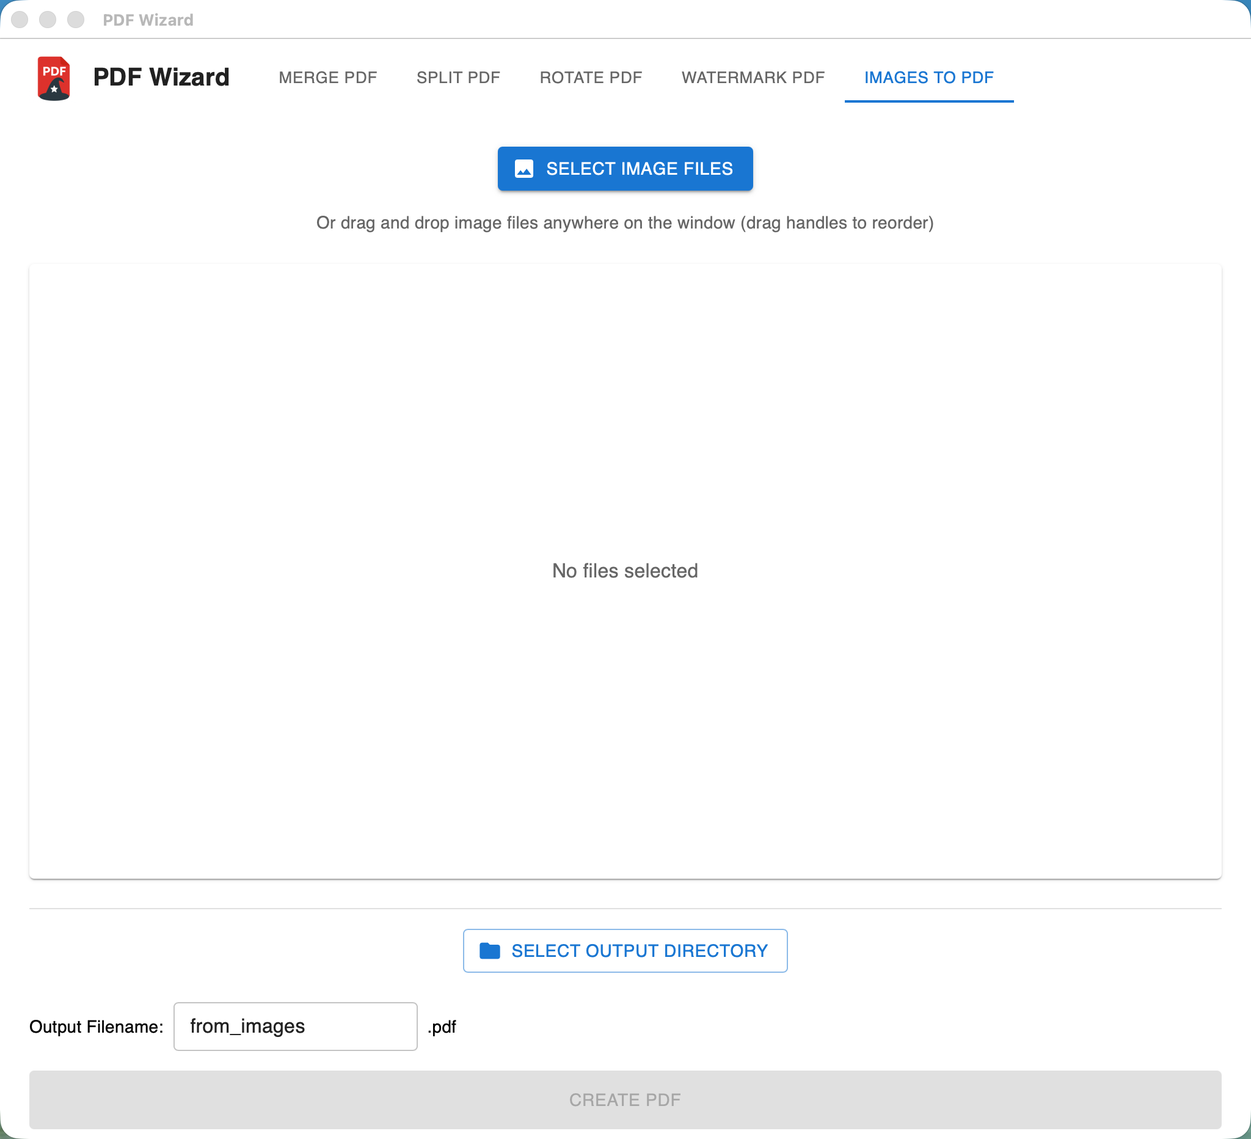
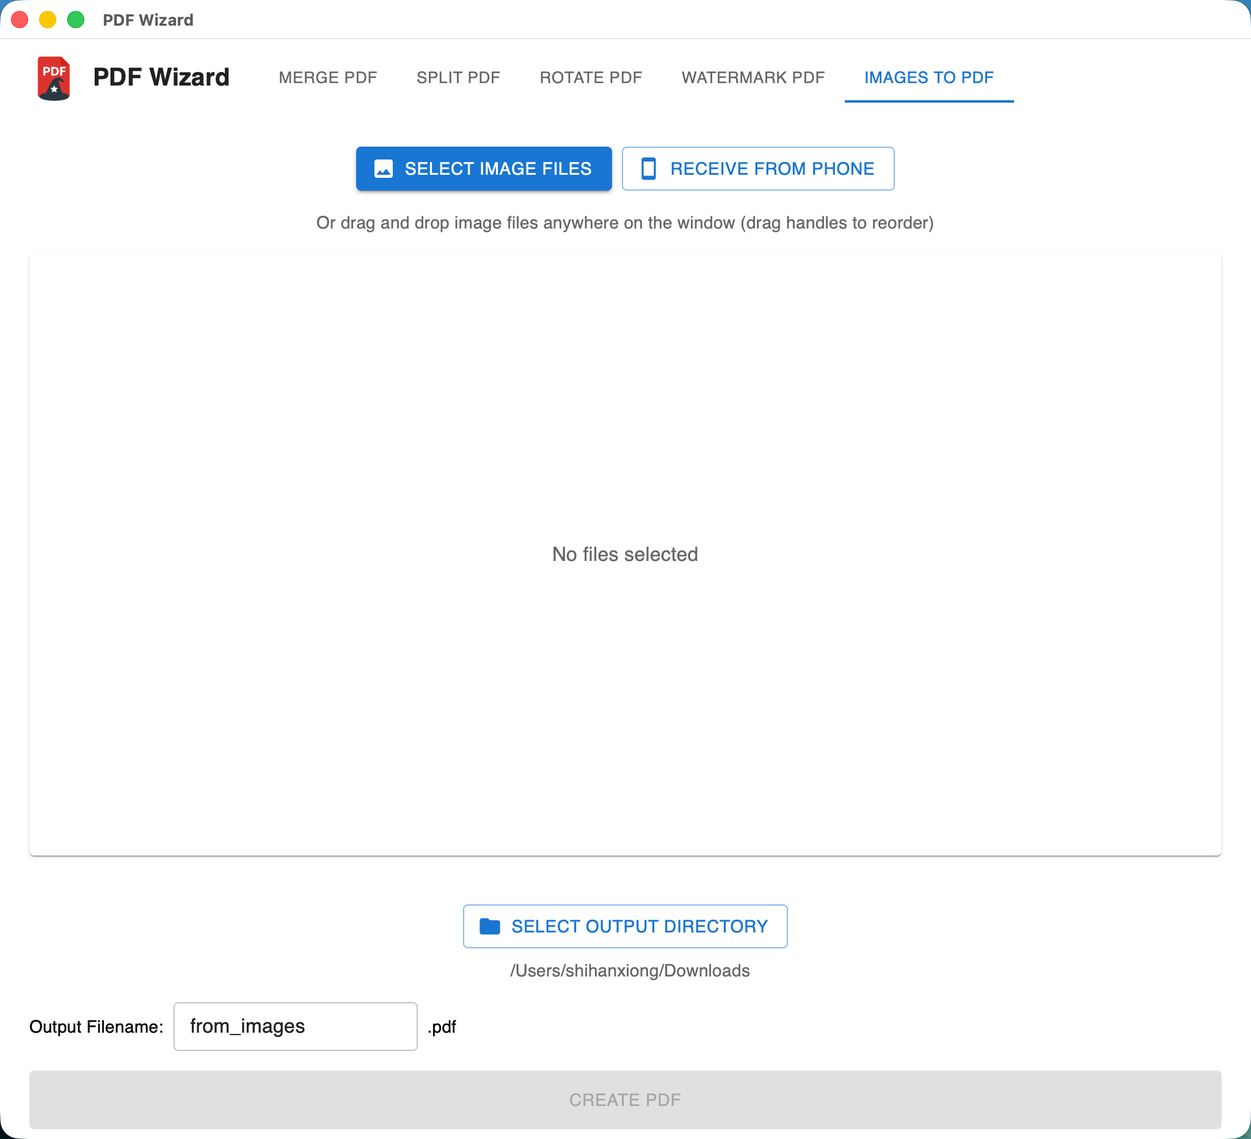
docs: document LAN phone upload, Gatekeeper, and design map (#80)
- README, SYSTEM_DESIGN: Images to PDF phone flow, qrcode, services layout
- DESIGN files: App phone bindings, services LAN section, components/i18n notes
- DISTRIBUTION, dist READMEs: transfer method does not bypass signing
- e2e README: scope excludes phone/LAN; OPTIMIZATION_REPORT snapshot row
- Update screenshots and minor wails/main tweaks included in working tree

Made-with: Cursor

diff --git a/pdf_wizard/main.go b/pdf_wizard/main.go
@@ -54,7 +54,7 @@ func main() {
 		Mac: &mac.Options{
 			About: &mac.AboutInfo{
 				Title:   "PDF Wizard",
-				Message: "A modern PDF toolkit built with Wails v2\n\nAuthor: Hanxiong Shi\nVersion 1.0.0\nCopyright © 2026",
+				Message: "A modern PDF toolkit built with Wails v2\n\nAuthor: Hanxiong Shi\nVersion 1.0.1\nCopyright © 2026",
 			},
 		},
 		OnStartup:  app.startup,

diff --git a/SYSTEM_DESIGN.md b/SYSTEM_DESIGN.md
@@ -15,7 +15,7 @@ Avoid duplicating long procedures across files. Use this table to find the **sin
 | Commands from `pdf_wizard/` (`wails dev`, quick test entry points) | [pdf_wizard/README.md](pdf_wizard/README.md) |
 | Native menu, `app.go`, config file, models, Wails `options.App` | [pdf_wizard/DESIGN.md](pdf_wizard/DESIGN.md) |
 | Tab components and Settings dialog UI | [pdf_wizard/frontend/src/components/DESIGN.md](pdf_wizard/frontend/src/components/DESIGN.md) |
-| File/PDF services (`FileService`, `PDFService`) | [pdf_wizard/services/DESIGN.md](pdf_wizard/services/DESIGN.md) |
+| File/PDF services (`FileService`, `PDFService`) and **LAN phone upload** (`phone_upload.go`) | [pdf_wizard/services/DESIGN.md](pdf_wizard/services/DESIGN.md) |
 | i18n layout, `useI18n`, adding a language | [pdf_wizard/frontend/src/utils/i18n/DESIGN.md](pdf_wizard/frontend/src/utils/i18n/DESIGN.md) |
 | **This file** | End-to-end architecture, UI patterns, watermark and images-to-PDF specs, cross-cutting technical notes |
 
@@ -48,11 +48,14 @@ pdf_wizard/
 │   ├── file_service.go    # File selection and metadata operations
 │   ├── pdf_service.go     # PDF processing operations (merge, split, rotate, watermark, images→PDF)
 │   ├── heic_jpeg.go       # HEIC/HEIF → temporary JPEG for pdfcpu import
+│   ├── phone_upload.go    # LAN HTTP server for phone → images upload; HTML templates
+│   ├── phone_upload_logo.go # go:embed app logo for phone pages (mirrors frontend asset)
+│   ├── app_logo.png       # Embedded copy of frontend logo (keep in sync when changing branding)
 │   ├── validation.go      # File and directory validation utilities
 │   ├── constants.go       # Service constants (file extensions, permissions)
 │   └── DESIGN.md          # Backend services design
 ├── models/                 # Data models
-│   └── types.go           # PDFMetadata, SplitDefinition, RotateDefinition, WatermarkDefinition
+│   └── types.go           # PDFMetadata, SplitDefinition, RotateDefinition, WatermarkDefinition, PhoneUploadPageCopy
 ├── frontend/
 │   ├── src/
 │   │   ├── main.tsx       # React entry; wraps App in I18nProvider
@@ -158,6 +161,7 @@ The backend uses a service-based architecture with clear separation of concerns:
 
 - **FileService** - Handles file selection, directory selection, and file metadata operations (including `SelectImageFiles` for the images tab)
 - **PDFService** - Handles all PDF processing operations (merge, split, rotate, watermark, images→PDF via `ImagesToPDF`)
+- **LAN phone upload** (`services/phone_upload.go`) - Optional HTTP server on the LAN for the Images to PDF tab: token-scoped URL `/u/{token}/`, multipart uploads, `PrimaryLANIPv4` for the QR base URL; not a separate service struct, but documented in [pdf_wizard/services/DESIGN.md](pdf_wizard/services/DESIGN.md)
 - **Validation utilities** (`validation.go`) - File and directory validation functions
   - `validatePDFFile()` - Validates file exists, is readable, and has PDF extension
   - `validateOutputDirectory()` - Validates directory exists and is accessible
@@ -231,7 +235,7 @@ For detailed application-level design, see [pdf_wizard/DESIGN.md](pdf_wizard/DES
 - `github.com/pdfcpu/pdfcpu/pkg/pdfcpu/color` - Color handling for watermarks
 - `github.com/pdfcpu/pdfcpu/pkg/pdfcpu/types` - PDF types and anchors
 - `github.com/gen2brain/heic` - HEIC/HEIF decode for the images→PDF pipeline (temporary JPEG before import)
-- Standard library: `encoding/json`, `image/jpeg`, `os`, `path/filepath`, `strings`, `fmt` - For configuration management, file operations, HEIC→JPEG encoding, and string manipulation
+- Standard library: `net`, `net/http`, `html/template`, `encoding/json`, `image/jpeg`, `os`, `path/filepath`, `strings`, `fmt`, `sync/atomic` — LAN phone upload server (`phone_upload.go`), configuration, HEIC→JPEG encoding, and string handling
 
 **Frontend:**
 
@@ -240,6 +244,7 @@ For detailed application-level design, see [pdf_wizard/DESIGN.md](pdf_wizard/DES
 - TypeScript
 - Wails runtime bindings
 - `@dnd-kit/core`, `@dnd-kit/sortable`, and `@dnd-kit/utilities` - For drag-and-drop file reordering (replaced deprecated react-beautiful-dnd)
+- `qrcode` - QR code generation for the LAN phone upload URL (Images to PDF tab)
 - Custom i18n system (`utils/i18n/`) - For internationalization (per-language modules, `catalog.ts` merge, React `I18nProvider` / `useI18n` for 12 languages)
 
 ### Error Handling
@@ -284,12 +289,26 @@ For detailed application-level design, see [pdf_wizard/DESIGN.md](pdf_wizard/DES
 
 The **Images to PDF** tab produces a single PDF with **one page per image**, in the order shown in the list. Supported raster types include JPEG, PNG, WebP, TIFF, GIF, BMP, and HEIC/HEIF. HEIC/HEIF files are converted once to temporary JPEGs on the backend so pdfcpu can import them efficiently (`services/heic_jpeg.go`).
 
+### Receive from phone (same Wi‑Fi)
+
+Users can **start receiving** on the desktop to run a small **HTTP server** on the LAN (random port, `0.0.0.0`). The app shows a **QR code** and URL that open a **phone-friendly upload page** in the device browser. The page is **localized** using `models.PhoneUploadPageCopy` strings passed from the React (`useI18n`) when the session starts.
+
+**Behavior (summary):**
+
+- **Token URL** — `http://<LAN-IPv4>:<port>/u/<token>/` (see `PrimaryLANIPv4()` + `StartLANImageUploadServer` in `services/phone_upload.go`).
+- **Logo** — `GET /u/{token}/logo.png` serves an embedded PNG (`services/app_logo.png`, same as `frontend/src/assets/img/app_logo.png`).
+- **Limit** — Up to **25** images per upload request (`PhoneUploadMaxFilesPerSession`); server and client enforce this.
+- **After a successful upload** — The app emits `images-phone-upload` with JSON path array, then **stops the LAN server** after a short delay so the phone can load the **success** (`/ok`) page first; the desktop clears the QR receive state. Further batches require **Receive from phone** again (new QR).
+- **Session closed** — After upload, revisiting the upload URL shows a **session ended** page; repeat **POST** returns **410** with the same copy. HTML responses use **`Cache-Control: no-store`**; the upload form uses **`pageshow` + bfcache reload** so Back does not show a stale form from cache.
+- **Wails bindings** — `StartImagesPhoneUpload(pageCopy)`, `StopImagesPhoneUpload()`; implementation details: [pdf_wizard/services/DESIGN.md — LAN phone image upload](pdf_wizard/services/DESIGN.md#lan-phone-image-upload), [pdf_wizard/DESIGN.md](pdf_wizard/DESIGN.md) (`App`).
+
 ### Functional requirements (summary)
 
 1. **Image selection** — Native multi-select (`SelectImageFiles`) and window-level drag-and-drop when the images tab is active; invalid paths are filtered with user-visible feedback.
-2. **Ordering** — Same `@dnd-kit` sortable list pattern as merge; order maps directly to page order in the output PDF.
-3. **Output** — Output directory and base filename (`.pdf` appended); calls Wails-bound `ImagesToPDF`.
-4. **i18n** — Tab label, buttons, and errors use `useI18n()` like other tabs.
+2. **Phone upload** (optional) — Receive from phone + QR + `EventsOn('images-phone-upload')` to append files to the same list as local picks.
+3. **Ordering** — Same `@dnd-kit` sortable list pattern as merge; order maps directly to page order in the output PDF.
+4. **Output** — Output directory and base filename (`.pdf` appended); calls Wails-bound `ImagesToPDF`.
+5. **i18n** — Tab label, buttons, phone page copy, and errors use `useI18n()` like other tabs; phone-specific keys live in `Translations` and `PhoneUploadPageCopy`.
 
 For component-level UI and state shape, see [pdf_wizard/frontend/src/components/DESIGN.md](pdf_wizard/frontend/src/components/DESIGN.md).
 

diff --git a/README.md b/README.md
@@ -10,7 +10,7 @@ A modern PDF toolkit built with [Wails v2](https://wails.io), combining Go backe
 - **Split PDFs**: Divide a PDF into multiple files based on page ranges
 - **Rotate PDFs**: Rotate specific page ranges in a PDF (90°, -90°, or 180°)
 - **Watermark PDFs**: Add text watermarks to PDFs with customizable font, size, color, opacity, rotation, and position. Features **language-specific fonts** that automatically adapt based on your selected language (Chinese, Japanese, Korean, Hindi, and standard fonts for other languages)
-- **Images to PDF**: Build one PDF from multiple images (JPEG, PNG, WebP, TIFF, GIF, BMP, HEIC/HEIF) with drag-and-drop reorder; HEIC/HEIF are converted to temporary JPEGs before import for reliable, faster processing
+- **Images to PDF**: Build one PDF from multiple images (JPEG, PNG, WebP, TIFF, GIF, BMP, HEIC/HEIF) with drag-and-drop reorder; **receive from phone** on the same Wi‑Fi via a LAN upload page and QR code (localized HTML, session limits, automatic stop after upload). HEIC/HEIF are converted to temporary JPEGs before import for reliable, faster processing
 
 **Features:**
 
@@ -137,7 +137,7 @@ Long-form material lives in dedicated files so it is not copied in multiple plac
 | Release packaging (DMG, ZIP, `build-dist.sh`, NSIS) | [pdf_wizard/DISTRIBUTION.md](pdf_wizard/DISTRIBUTION.md)                                     |
 | `main.go`, `app.go`, menu, config file, models      | [pdf_wizard/DESIGN.md](pdf_wizard/DESIGN.md)                                                 |
 | Tab components and Settings UI                      | [pdf_wizard/frontend/src/components/DESIGN.md](pdf_wizard/frontend/src/components/DESIGN.md) |
-| Go services (merge, split, rotate, watermark, images→PDF) | [pdf_wizard/services/DESIGN.md](pdf_wizard/services/DESIGN.md)                         |
+| Go services (merge, split, rotate, watermark, images→PDF, **LAN phone upload**) | [pdf_wizard/services/DESIGN.md](pdf_wizard/services/DESIGN.md)                         |
 | i18n files, `useI18n`, adding a language            | [pdf_wizard/frontend/src/utils/i18n/DESIGN.md](pdf_wizard/frontend/src/utils/i18n/DESIGN.md) |
 | Daily commands from `pdf_wizard/`                   | [pdf_wizard/README.md](pdf_wizard/README.md)                                                 |
 
@@ -199,6 +199,7 @@ Coverage reports, filtering tests by name, and Playwright/CI details: **[pdf_wiz
 ## Features
 
 - **Watermark PDFs** (language-aware fonts, positions, opacity): [SYSTEM_DESIGN.md — Watermark PDF Tab](SYSTEM_DESIGN.md#watermark-pdf-tab).
+- **Images to PDF — phone upload** (QR, LAN server, session rules): [SYSTEM_DESIGN.md — Images to PDF Tab](SYSTEM_DESIGN.md#images-to-pdf-tab) and [pdf_wizard/services/DESIGN.md — LAN phone image upload](pdf_wizard/services/DESIGN.md#lan-phone-image-upload).
 - **Internationalization** (12 languages, `useI18n`, adding a locale): [pdf_wizard/frontend/src/utils/i18n/DESIGN.md](pdf_wizard/frontend/src/utils/i18n/DESIGN.md).
 
 ## Technology stack
@@ -263,6 +264,10 @@ Navigate to the frontend directory and install manually:
 cd pdf_wizard/frontend
 npm install
 ```
+
+### macOS: app blocked or “unidentified developer” after sharing the DMG
+
+How you copy the app (AirDrop, WeChat, USB, etc.) does **not** change Gatekeeper rules. Unsigned or unnotarized builds still need **Right-click → Open** (or **Privacy & Security**) the first time. For fewer prompts for end users, use **signed and notarized** builds; see [pdf_wizard/DISTRIBUTION.md](pdf_wizard/DISTRIBUTION.md).
 
 ### Language not changing
 

diff --git a/pdf_wizard/services/DESIGN.md b/pdf_wizard/services/DESIGN.md
@@ -9,8 +9,26 @@ The backend uses a service-based architecture with clear separation of concerns:
 - **FileService** (`file_service.go`): Handles file selection, directory selection, and file metadata operations
 - **PDFService** (`pdf_service.go`): Handles all PDF processing operations (merge, split, rotate, watermark, images→PDF)
 - **HEIC helpers** (`heic_jpeg.go`): Decode HEIC/HEIF to temporary JPEG for `api.ImportImagesFile`
+- **LAN phone upload** (`phone_upload.go`, `phone_upload_logo.go`): Optional HTTP server for sending images from a phone on the same LAN (see [§ LAN phone image upload](#lan-phone-image-upload))
 
-The App struct in `app.go` acts as a thin wrapper that delegates to these services and provides Wails bindings for the frontend.
+The App struct in `app.go` acts as a thin wrapper that delegates to these services and provides Wails bindings for the frontend (including starting/stopping the phone upload server).
+
+## LAN phone image upload
+
+**Files:** `phone_upload.go`, `phone_upload_logo.go`, embedded `app_logo.png` (keep in sync with `frontend/src/assets/img/app_logo.png`).
+
+**Entry:** `StartLANImageUploadServer(onUploaded func([]string), pageCopy models.PhoneUploadPageCopy) (pageURL string, stop func() error, err error)` — listens on `0.0.0.0:random port`, serves token-scoped routes under `/u/{token}/`.
+
+**Behavior:**
+
+- **GET** `/u/{token}/` — Upload form (or **session closed** HTML after a successful upload); **`writePhoneFormHTML`** injects `MaxFiles`, JS for selected-count (`__COUNT__`), and bfcache **`pageshow`** reload.
+- **GET** `/u/{token}/ok` — Success page after **POST** + redirect (PRG).
+- **GET** `/u/{token}/logo.png` — PNG bytes (`go:embed`), used as `src="logo.png"` in templates (avoids large `data:` URIs in HTML).
+- **POST** — Multipart field `files`; saves valid images to a session temp dir; **`cloneUploadedImagesForApp`** copies into `os.TempDir` paths for the app; **`onUploaded`** receives durable paths; **`PhoneUploadMaxFilesPerSession`** (25) enforced.
+- **HTML** — `html/template`, **`setPhonePageNoStore`** on responses; localized copy from **`normalizePhoneCopy`** defaults merged with **`PhoneUploadPageCopy`** from the frontend.
+- **`IsImageFile`** / **`validateImageFile`** from `validation.go` for accepted types.
+
+**App wiring:** `StartImagesPhoneUpload` / `StopImagesPhoneUpload` in `app.go`; **`runtime.EventsEmit(ctx, "images-phone-upload", json)`**; tests in `phone_upload_test.go`.
 
 ## FileService
 
@@ -246,6 +264,10 @@ Shared helpers used by services:
 - **`validateOutputDirectory`** — Output directory exists and is writable
 
 ## Data Models
+
+### PhoneUploadPageCopy
+
+Defined in **`models/types.go`**. Passed from React when starting the LAN server so phone HTML matches UI language. Fields include `lang`, `dir`, form/success/error/session-closed strings, `selectedCountLine` (`__COUNT__`), `tooManyFiles` (with `__MAX__` substituted on the frontend). See **`frontend/src/utils/i18n/types.ts`** (`imagesPhonePage*` keys).
 
 ### PDFMetadata
 

diff --git a/pdf_wizard/DESIGN.md b/pdf_wizard/DESIGN.md
@@ -48,12 +48,10 @@ func main() {
 The application menu is configured as follows:
 
 1. **AppMenu**: Uses `menu.AppMenu()` which automatically includes:
-
    - "About PDF Wizard" (handled by `mac.About` option)
    - Standard macOS app menu items (Services, Hide, Quit, etc.)
 
 2. **Settings Menu**: Added as a separate menu item
-
    - Contains "Settings" menu item
    - Triggers `EmitSettingsEvent()` which emits "show-settings" event
    - Frontend listens for this event and opens Settings dialog
@@ -68,7 +66,7 @@ The application menu is configured as follows:
 Mac: &mac.Options{
     About: &mac.AboutInfo{
         Title:   "PDF Wizard",
-        Message: "A modern PDF toolkit built with Wails v2\n\nAuthor: Hanxiong Shi\nVersion 1.0.0\nCopyright © 2026",
+        Message: "A modern PDF toolkit built with Wails v2\n\nAuthor: Hanxiong Shi\nVersion 1.0.1\nCopyright © 2026",
     },
 }
 ```
@@ -93,6 +91,9 @@ type App struct {
     ctx         context.Context
     fileService *services.FileService
     pdfService  *services.PDFService
+
+    phoneMu   sync.Mutex
+    phoneStop func() error // stops LAN image upload server; nil when not running
 }
 
 const (
@@ -120,6 +121,15 @@ func (a *App) startup(ctx context.Context) {
     a.pdfService = pdfService
 }
 ```
+
+The Wails **`shutdown`** lifecycle hook calls **`StopImagesPhoneUpload`** so the LAN server stops when the app quits.
+
+### LAN phone image upload (`StartImagesPhoneUpload` / `StopImagesPhoneUpload`)
+
+- **`StartImagesPhoneUpload(pageCopy models.PhoneUploadPageCopy) (string, error)`** — Starts `services.StartLANImageUploadServer` with translated copy for the phone HTML. Returns the page URL for QR display. If a server is already running, it is stopped first. On successful upload, emits **`images-phone-upload`** (JSON array of paths) and schedules **`StopImagesPhoneUpload`** after a delay so the phone can load the success page.
+- **`StopImagesPhoneUpload() error`** — Invokes the stored stop function (shutdown HTTP server, remove temp dir), clears `phoneStop`, no-ops if idle.
+
+See [services/DESIGN.md](services/DESIGN.md#lan-phone-image-upload) and [SYSTEM_DESIGN.md — Images to PDF Tab](../SYSTEM_DESIGN.md#images-to-pdf-tab).
 
 ### Language Management
 
@@ -220,6 +230,10 @@ func (a *App) ApplyWatermark(inputPath string, watermark models.WatermarkDefinit
 ```
 
 ## Data Models (models/types.go)
+
+### PhoneUploadPageCopy
+
+Structured strings for the **phone browser** upload HTML (same language as the desktop UI). Filled in **`ImagesToPdfTab`** from `useI18n()` and passed to **`StartImagesPhoneUpload`**. Includes labels for the form, success and error pages, session-ended page, selected-count line (`__COUNT__`), and max-files message (`__MAX__` replaced on the frontend). See **`types.ts`** / locale files for keys (`imagesPhonePage*`).
 
 ### PDFMetadata
 

diff --git a/pdf_wizard/frontend/src/components/DESIGN.md b/pdf_wizard/frontend/src/components/DESIGN.md
@@ -21,13 +21,14 @@ When the UI language is English, **`App.tsx`** applies a slightly smaller `Tabs`
 ### Functional requirements
 
 1. **Image selection** — `SelectImageFiles` from the backend plus drag-and-drop when the images tab is active; only supported image extensions are kept (same mental model as merge: multi-file + optional reorder).
-2. **File list** — Sortable list via `@dnd-kit` (reuse merge-style UX: path, size, last modified, remove, drag handle).
-3. **Output** — Shared output directory + filename patterns (`OutputDirectorySelector`, `FilenameInput`); default basename `from_images` → `from_images.pdf`.
-4. **Processing** — `ImagesToPDF` Wails binding; success/error surfaced like other tabs.
+2. **Receive from phone** — `StartImagesPhoneUpload` with `models.PhoneUploadPageCopy` built from `useI18n()` (language, `dir`, and all `imagesPhonePage*` strings). Shows URL + **QR code** (`qrcode` npm). Subscribes to **`EventsOn('images-phone-upload')`**, loads metadata via `GetFileMetadata`, appends to the list, clears receive URL on success. **`StopImagesPhoneUpload`** when the user stops receiving; the backend also stops automatically after a successful phone upload (new session = new QR).
+3. **File list** — Sortable list via `@dnd-kit` (reuse merge-style UX: path, size, last modified, remove, drag handle).
+4. **Output** — Shared output directory + filename patterns (`OutputDirectorySelector`, `FilenameInput`); default basename `from_images` → `from_images.pdf`.
+5. **Processing** — `ImagesToPDF` Wails binding; success/error surfaced like other tabs.
 
 ### Implementation notes
 
-- **`ImagesToPdfTab.tsx`** — Local list state, registers a drop handler with `App` keyed by `imagesToPdf` (`MAIN_TAB_IDS`).
+- **`ImagesToPdfTab.tsx`** — Local list state, registers a drop handler with `App` keyed by `imagesToPdf` (`MAIN_TAB_IDS`); phone receive state, QR data URL, `PHONE_UPLOAD_MAX_FILES` constant must match Go **`PhoneUploadMaxFilesPerSession`**.
 - **`useImageDrop.ts`** — Filters dropped paths to image extensions and maps them into `SelectedFile`-like rows for the list.
 
 ## Merge PDFs Tab

diff --git a/pdf_wizard/frontend/src/utils/i18n/DESIGN.md b/pdf_wizard/frontend/src/utils/i18n/DESIGN.md
@@ -51,6 +51,10 @@ On startup, `App.tsx` calls `GetLanguage()` from the Go binding, validates with 
 
 The Settings dialog reads `SUPPORTED_LANGUAGES`; no separate hardcoded list is required there.
 
+## Phone upload page copy (`imagesPhonePage*`)
+
+The **LAN phone upload** HTML is not React-rendered; the Go server serves static templates with strings from **`models.PhoneUploadPageCopy`**. The **Images to PDF** tab fills that struct via `new models.PhoneUploadPageCopy({ ... })` using keys such as **`imagesPhonePageTitle`**, **`imagesPhonePageSessionClosedTitle`**, **`imagesPhonePageSelectedCount`** (contains `__COUNT__`), **`imagesPhonePageTooManyFiles`** (contains `__MAX__`; replace with the numeric limit in TS), etc. When adding or renaming keys, update **`types.ts`**, every locale file, **`normalizePhoneCopy`** defaults in `services/phone_upload.go`, and run **`wails generate module`**.
+
 ## Best practices
 
 - Use `t('key')` for all user-visible strings; add the key to **`types.ts`** and every locale file.

diff --git a/pdf_wizard/OPTIMIZATION_REPORT.md b/pdf_wizard/OPTIMIZATION_REPORT.md
@@ -1,6 +1,6 @@
 # Code optimization report
 
-Living document for performance and maintainability work in PDF Wizard. **Last updated:** 2026 (issues #57, #62).
+Living document for performance and maintainability work in PDF Wizard. **Last updated:** 2026 (issues #57, #62; LAN phone upload documented in SYSTEM_DESIGN / services DESIGN).
 
 ---
 
@@ -16,6 +16,7 @@ Living document for performance and maintainability work in PDF Wizard. **Last u
 | Shared tab UI logic | **Partial** — `usePDFDrop`, `useImageDrop`, `useOutputDirectory`, `useProcessingState`, `useErrorHandler` exist; Split/Rotate still overlap |
 | `GetPDFMetadata` / redundant `Stat` | **Open** — see backlog |
 | Split: single read + per-segment extract | **Done** — `SplitPDF` (#57) |
+| LAN phone image upload (HTTP server, QR flow) | **Shipped** — `services/phone_upload.go`; product doc: [SYSTEM_DESIGN.md](../SYSTEM_DESIGN.md#images-to-pdf-tab) |
 
 ---
 

diff --git a/pdf_wizard/README.md b/pdf_wizard/README.md
@@ -17,8 +17,10 @@ Vite hot reload; optional browser devtools UI at `http://localhost:34115`.
 
 ## Build and distribution
 
-- **Binary**: `wails build` → `build/bin/`
+- **Binary**: `wails build` → `build/bin/` (gitignored; not committed)
 - **DMG / ZIP / renamed Windows artifacts**: `./build-dist.sh` or `.\build-dist.ps1` after a successful build — full procedure in **[DISTRIBUTION.md](DISTRIBUTION.md)** only.
+
+**LAN phone upload** (Images to PDF): architecture and behavior are documented in **[SYSTEM_DESIGN.md](../SYSTEM_DESIGN.md#images-to-pdf-tab)** and **[services/DESIGN.md](services/DESIGN.md#lan-phone-image-upload)**.
 
 ## Tests
 

diff --git a/pdf_wizard/DISTRIBUTION.md b/pdf_wizard/DISTRIBUTION.md
@@ -34,6 +34,10 @@ xattr -cr "/path/to/PDF Wizard.app"
 
 Then open it normally.
 
+#### Transfer method and Gatekeeper
+
+Copying the app or DMG via **AirDrop, WeChat, USB, etc.** does **not** bypass macOS **Gatekeeper** or **notarization** requirements. Recipients still see the same “unidentified developer” / quarantine behavior as with a download from the web until the app is **signed and notarized** (or they use **Right-click → Open**). See the root **[README.md](../README.md)** troubleshooting section.
+
 #### Option B: Code Signing (Recommended for Public Distribution)
 
 For distribution to other users, you should code sign the app:

diff --git a/pdf_wizard/frontend/e2e/README.md b/pdf_wizard/frontend/e2e/README.md
@@ -6,6 +6,8 @@ This directory contains end-to-end (E2E) tests for the PDF Wizard application us
 
 These tests run against the Vite development server and test the full UI flow of the application.
 
+**Scope:** Flows that need a second device or a real LAN HTTP server (e.g. **Receive from phone** on the Images to PDF tab) are not covered here; see **[SYSTEM_DESIGN.md](../../../../SYSTEM_DESIGN.md#images-to-pdf-tab)** for that feature.
+
 ## Running Tests
 
 ### Basic Test Run

diff --git a/pdf_wizard/dist/README.md b/pdf_wizard/dist/README.md
@@ -1,5 +1,7 @@
 # PDF Wizard - Installation Instructions
 
+Product overview, development setup, and the full documentation index: **[README.md](../../README.md)** (repository root). LAN phone upload behavior: **[SYSTEM_DESIGN.md](../../SYSTEM_DESIGN.md#images-to-pdf-tab)**.
+
 ## macOS Installation
 
 ### Quick Start (DMG):
